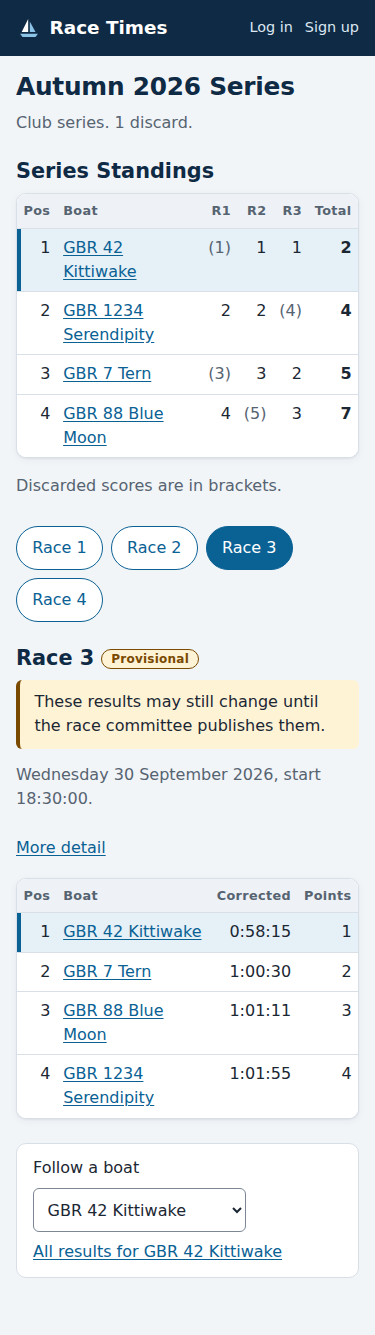
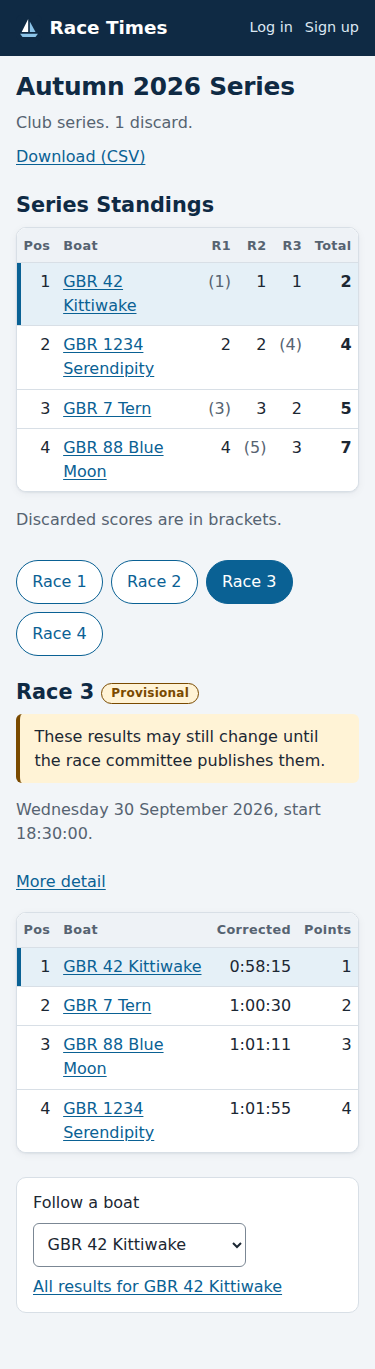
Slice 10: manual, screenshots, a phone layout fix, and slice complete
The manual gains "Ending a series: final results":
- when a series is ready;
- declaring final, and what the lock means;
- reopening.

"Finding your results" gains the Final label and a section on the CSV
download, and the members' email page lists "Final standings" and
"Updated final standings". The screenshot data gains a finished Summer
2026 Series; four new screenshots show it declared final.

Found in the phone check: the race day page's "This series is final" note
had been placed inside the view buttons' markup, which pushed the page
sideways at 375 px. It now sits below them, and a test checks where it is.
The Final results page's note about races not sailed now sits above its
button, and the standings table uses the site's table style.

CLAUDE.md describes races/final.py and results/export.py. The spec records
what was found while building, and docs/plan.md marks slice 10 complete.

Claude-Session: https://claude.ai/code/session_01QY3tQYF5nVQS35pznUQfpw

diff --git a/templates/races/final.html b/templates/races/final.html
@@ -12,33 +12,36 @@
 {% if series.is_final %}
   <p><strong>Final.</strong> Declared {{ series.declared_final_at|date:"j M Y H:i" }} by {{ series.declared_final_by_name }}.
     The series is locked: finishes, start sheets, races, entries and settings can't be changed.</p>
-  {% if not series.final_results_sent_at %}
-  <p>The final standings have not been emailed: sending failed. Try again:</p>
-  <form method="post" action="{% url 'races:send_final' series.pk %}">{% csrf_token %}
-    <button type="submit">Send final standings</button>
-  </form>
-  {% else %}
-  <p>Final standings emailed to the owners {{ series.final_results_sent_at|date:"j M Y H:i" }}.</p>
-  {% endif %}
 {% elif blockers %}
   <p><strong>Not final yet.</strong> Before declaring the series final:</p>
   <ul class="blockers">{% for problem in blockers %}<li>{{ problem }}</li>{% endfor %}</ul>
 {% else %}
   <p><strong>Ready to declare final.</strong> Declaring locks the series, keeps these standings as its
     final places, and emails every owner their boat's final place. You can reopen it later if a mistake turns up.</p>
-  <form method="post" action="{% url 'races:declare_final' series.pk %}">{% csrf_token %}
-    <button type="submit">Declare final</button>
-  </form>
 {% endif %}
 {% if not_sailed %}
   <p class="muted">Not sailed, so left out of the {% if series.is_final %}final {% endif %}standings:
     {% for race in not_sailed %}race {{ race.number }} ({{ race.date|date:"j M" }}){% if not forloop.last %}, {% endif %}{% endfor %}.</p>
 {% endif %}
+{% if series.is_final %}
+  {% if series.final_results_sent_at %}
+  <p>Final standings emailed to the owners {{ series.final_results_sent_at|date:"j M Y H:i" }}.</p>
+  {% else %}
+  <p>The final standings have not been emailed: sending failed. Try again:</p>
+  <form method="post" action="{% url 'races:send_final' series.pk %}">{% csrf_token %}
+    <button type="submit">Send final standings</button>
+  </form>
+  {% endif %}
+{% elif not blockers %}
+  <form method="post" action="{% url 'races:declare_final' series.pk %}">{% csrf_token %}
+    <button type="submit">Declare final</button>
+  </form>
+{% endif %}
 </div>
 
 <h2>{% if series.is_final %}Final standings{% else %}Standings as they stand now{% endif %}</h2>
 {% if results.standings %}
-<div class="table-wrap"><table>
+<div class="table-scroll"><table>
   <thead><tr><th class="num">Pos</th><th>Boat</th><th class="num">Total</th></tr></thead>
   <tbody>{% for row in results.standings %}
     <tr><td class="num">{{ row.position }}</td><td>{{ row.entry.boat }}</td><td class="num">{{ row.total|points }}</td></tr>

diff --git a/scripts/manual_screenshots/shots.js b/scripts/manual_screenshots/shots.js
@@ -115,6 +115,23 @@ const card = (page, text) => page.locator('section.card', { hasText: text }).fir
   await refused.waitFor();
   await shot(refused, 'start-sheet-has-result.png');
 
+  // Ending a series: the Autumn series isn't ready; the Summer one is, and is declared final.
+  await officer.goto(`${BASE}/series/1/final/`);
+  await shot(officer.locator('#final-state'), 'final-not-ready.png');
+  await officer.goto(`${BASE}/series/3/final/`);
+  await shot(officer.locator('main'), 'final-ready.png');
+  await officer.click('#final-state button');
+  await officer.waitForLoadState('networkidle');
+  await shot(officer.locator('main'), 'final-declared.png');
+  // The public series page, from its title to the end of the final standings.
+  await publicPage.goto(`${BASE}/series/3/`);
+  const title = await publicPage.locator('main h1').boundingBox();
+  const standings = await publicPage.locator('#series-body .table-scroll').first().boundingBox();
+  await publicPage.screenshot({
+    path: path.join(OUT, 'results-final.png'), fullPage: true,
+    clip: { x: 0, y: title.y - 8, width: 1000, height: standings.y + standings.height - title.y + 16 },
+  });
+
   // Forgotten passwords.
   await publicPage.goto(`${BASE}/accounts/password-reset/`);
   await shot(publicPage.locator('body'), 'password-reset.png');

diff --git a/templates/races/_race_day_body.html b/templates/races/_race_day_body.html
@@ -1,12 +1,12 @@
 <div id="race-day-body">
 <nav class="view-tabs" aria-label="Race day">
-  <a href="{{ start_url }}" hx-get="{{ start_url }}" hx-target="#race-day-body" hx-swap="outerHTML" hx-push-url="true"{% if locked %}
+  <a href="{{ start_url }}" hx-get="{{ start_url }}" hx-target="#race-day-body" hx-swap="outerHTML" hx-push-url="true"{% if view == "start" %} aria-current="page"{% endif %}>Start sheet</a>
+  <a href="{{ finish_url }}" hx-get="{{ finish_url }}" hx-target="#race-day-body" hx-swap="outerHTML" hx-push-url="true"{% if view == "finish" %} aria-current="page"{% endif %}>Finishing</a>
+</nav>
+{% if locked %}
 <p class="note locked-note"><strong>This series is final</strong>, so nothing here can be changed.
   To correct it, <a href="{% url 'races:final' race.series.pk %}">reopen the series</a> first.</p>
 {% endif %}
-{% if view == "start" %} aria-current="page"{% endif %}>Start sheet</a>
-  <a href="{{ finish_url }}" hx-get="{{ finish_url }}" hx-target="#race-day-body" hx-swap="outerHTML" hx-push-url="true"{% if view == "finish" %} aria-current="page"{% endif %}>Finishing</a>
-</nav>
 {% if view == "start" %}
   {% include "races/_start_sheet_count.html" %}
   <p>Tick each boat that is racing. It saves as you tick; the owner is emailed when a boat is put on or taken off.

diff --git a/scripts/manual_screenshots/seed.py b/scripts/manual_screenshots/seed.py
@@ -4,7 +4,7 @@ Run only by run.sh, against a throwaway SQLite database it creates, never
 against a real one. Every account's password is PASSWORD.
 """
 
-from datetime import date, time, timedelta
+from datetime import date, datetime, time, timedelta
 from decimal import Decimal
 
 from django.contrib.auth.models import Group
@@ -73,6 +73,21 @@ race_4 = Race.objects.create(series=autumn, number=4, date=started.date(),
 RaceEntry.objects.create(race=race_4, entry=entries[0], persons_on_board=3)
 RaceEntry.objects.create(race=race_4, entry=entries[2], persons_on_board=4)
 wednesdays = Series.objects.create(name="Wednesday Evenings")
+
+# A finished summer series, every race published and sent, ready to be
+# declared final (slice 10). Race 3 was cancelled for weather: nothing recorded.
+summer = Series.objects.create(name="Summer 2026 Series")
+summer_entries = [SeriesEntry.objects.create(series=summer, boat=boat) for boat in (kittiwake, tern, serendipity)]
+summer_finishes = {1: [time(19, 12, 40), time(19, 15, 2), time(19, 14, 21)],
+                   2: [time(19, 20, 5), time(19, 18, 33), time(19, 21, 50)]}
+sent = timezone.make_aware(datetime(2026, 7, 20, 21, 0))
+for number, day in [(1, 1), (2, 8), (3, 15)]:
+    race = Race.objects.create(series=summer, number=number, date=date(2026, 7, day), start_time=time(18, 30))
+    if number in summer_finishes:
+        for entry, finish in zip(summer_entries, summer_finishes[number]):
+            RaceEntry.objects.create(race=race, entry=entry)
+            Finish.objects.create(race=race, entry=entry, finish_time=finish)
+        Race.objects.filter(pk=race.pk).update(published_at=sent, results_sent_at=sent)
 
 # One request of each kind, waiting.
 BoatRequest.objects.create(

diff --git a/races/test_final.py b/races/test_final.py
@@ -258,6 +258,11 @@ def test_the_race_day_page_shows_the_series_is_final(client, locked):
     race_2 = locked["races"][1]
     page = client.get(reverse("races:race_day", args=[race_2.pk]) + "?view=finish").content.decode()
     assert "This series is final" in page
+    # The note sits below the view buttons, not inside them.
+    tabs_start = page.index('<nav class="view-tabs"')
+    tabs_end = page.index("</nav>", tabs_start)
+    assert "locked-note" not in page[tabs_start:tabs_end]
+    assert tabs_end < page.index('<p class="note locked-note">')
     assert "Edit</summary>" not in page and "Finished</button>" not in page and 'id="publishing"' not in page
     page = client.get(reverse("races:race_day", args=[race_2.pk]) + "?view=start").content.decode()
     assert '<fieldset class="start-rows" disabled>' in page

diff --git a/CLAUDE.md b/CLAUDE.md
@@ -85,8 +85,8 @@ a pointer instead.
   over them; `tests/conftest.py` wraps the same objects as pytest fixtures. All
   fixture I/O happens there, never inside `nhc/`. `tests/test_manual.py` is the
   one non-engine test there: it checks the user manual's links and contents.
-- `config/` is the Django project (settings, root URLs, WSGI/ASGI). `races/` is the app: Boat, Series, SeriesEntry, Race, RaceEntry and Finish models, set up through the Django admin; `races/scoring.py` replays a series through `nhc` on every request (nothing derived is stored); `races/audit.py` records every change to a score-affecting field as a `ScoringChange` row (who, when, old and new, and a reason for corrections), called explicitly from the finish view and the admin rather than via signals; a committee-only race day page per race (slice 9, `races/race_day.py` and `/races/<pk>/`: a Start sheet view and a Finishing view where a **Finished** button stamps the site's local time, with a two-minute Undo, 5-second HTMX polling that answers 204 when nothing changed, and `static/js/race-clock.js`, the one approved hand-written script; `race_day.now` is the clock to fix in tests) and a committee-only history page per series. The old finish-entry and start sheet addresses redirect to the race day page. Roles (see `docs/brief.md`) are in `races/roles.py`: member = active account, race committee = staff in the "Race committee" group (created by migration 0005, with no permissions on accounts), administrator = superuser; use `committee_required` / `member_required`, never `is_staff` alone. Members change nothing directly: `races/member_views.py` creates `BoatRequest`/`EntryRequest` rows, and `races/approvals.py` applies one when the committee approves it on the Requests page, through the same audit code as the admin. Email (slice 4) goes only through `races/notifications.send`, which sends after the transaction commits and turns a failure into a logged warning on the page rather than an error; templates are `templates/emails/*.txt`, first line the subject. `races/publishing.py` publishes a race's results and decides "amended since sent" from the change history. `races/start_sheet.py` (slice 6) keeps each race's start sheet (`RaceEntry`): only a boat on it can have a finish, every boat on it needs a time or a code before publishing, and a boat on it with nothing recorded is still scored DNC but shown as "Not recorded". Start sheet changes are not audited, since none moves a score. The test builder `record()` puts the boat on the start sheet first. `races/urls.py` is included at the site root. Project-level templates live in `templates/` (`base.html` loads HTMX and sends the CSRF token via `hx-headers`, so HTMX POSTs work without per-form tokens); HTMX is vendored at `static/js/htmx.min.js` (v2.0.10), not loaded from a CDN. The look (slice 7) is one hand-written stylesheet, `static/css/site.css`: every colour is a token in its `:root`, and `races/test_styles.py` checks the tokens meet WCAG AA contrast, that no colour is written anywhere else, and that pages load only the site's own files. `templates/500.html` copies the look inline and loads nothing. `ping` is an example view demonstrating HTMX fragment responses. `races/testing.py` has builders for the app's tests.
-- `results/` is the public results app (slice 5): the home page (boat search, latest results, every series), a series page and a boat page, at `/`, `/series/<pk>/` and `/boats/<pk>/`. It only reads: no models, GET-only views, and it shows what `races.scoring.score_series` computes and nothing else. It imports from `races`; `races` never imports from it (it links to it by URL name only). `results/test_read_only.py` enforces all of this. Each HTMX interaction goes to the same URL as its full page; `results/views.py:_render` returns just the targeted fragment when `request.htmx` names it. Public pages never show owners' names.
+- `config/` is the Django project (settings, root URLs, WSGI/ASGI). `races/` is the app: Boat, Series, SeriesEntry, Race, RaceEntry and Finish models, set up through the Django admin; `races/scoring.py` replays a series through `nhc` on every request (nothing derived is stored); `races/audit.py` records every change to a score-affecting field as a `ScoringChange` row (who, when, old and new, and a reason for corrections), called explicitly from the finish view and the admin rather than via signals; a committee-only race day page per race (slice 9, `races/race_day.py` and `/races/<pk>/`: a Start sheet view and a Finishing view where a **Finished** button stamps the site's local time, with a two-minute Undo, 5-second HTMX polling that answers 204 when nothing changed, and `static/js/race-clock.js`, the one approved hand-written script; `race_day.now` is the clock to fix in tests) and a committee-only history page per series. The old finish-entry and start sheet addresses redirect to the race day page. Roles (see `docs/brief.md`) are in `races/roles.py`: member = active account, race committee = staff in the "Race committee" group (created by migration 0005, with no permissions on accounts), administrator = superuser; use `committee_required` / `member_required`, never `is_staff` alone. Members change nothing directly: `races/member_views.py` creates `BoatRequest`/`EntryRequest` rows, and `races/approvals.py` applies one when the committee approves it on the Requests page, through the same audit code as the admin. Email (slice 4) goes only through `races/notifications.send`, which sends after the transaction commits and turns a failure into a logged warning on the page rather than an error; templates are `templates/emails/*.txt`, first line the subject. `races/publishing.py` publishes a race's results and decides "amended since sent" from the change history. `races/final.py` (slice 10) declares a series final and reopens it: a final series is locked (every write path calls `final.check_open`, or `check_series_open` to read the series fresh) and `races/scoring.score_series` rebuilds its results from `Series.final_results`, a JSON copy of the engine's output, instead of replaying; this is the one place derived results are stored. Declaring and reopening are history rows of kind FINAL, which neither mark races amended nor move the standings' "Last updated". `races/start_sheet.py` (slice 6) keeps each race's start sheet (`RaceEntry`): only a boat on it can have a finish, every boat on it needs a time or a code before publishing, and a boat on it with nothing recorded is still scored DNC but shown as "Not recorded". Start sheet changes are not audited, since none moves a score. The test builder `record()` puts the boat on the start sheet first. `races/urls.py` is included at the site root. Project-level templates live in `templates/` (`base.html` loads HTMX and sends the CSRF token via `hx-headers`, so HTMX POSTs work without per-form tokens); HTMX is vendored at `static/js/htmx.min.js` (v2.0.10), not loaded from a CDN. The look (slice 7) is one hand-written stylesheet, `static/css/site.css`: every colour is a token in its `:root`, and `races/test_styles.py` checks the tokens meet WCAG AA contrast, that no colour is written anywhere else, and that pages load only the site's own files. `templates/500.html` copies the look inline and loads nothing. `ping` is an example view demonstrating HTMX fragment responses. `races/testing.py` has builders for the app's tests.
+- `results/` is the public results app (slice 5): the home page (boat search, latest results, every series), a series page and a boat page, at `/`, `/series/<pk>/` and `/boats/<pk>/`. It only reads: no models, GET-only views, and it shows what `races.scoring.score_series` computes and nothing else. `results/export.py` builds the CSV download at `/series/<pk>/results.csv` (slice 10) from the same results. It imports from `races`; `races` never imports from it (it links to it by URL name only). `results/test_read_only.py` enforces all of this. Each HTMX interaction goes to the same URL as its full page; `results/views.py:_render` returns just the targeted fragment when `request.htmx` names it. Public pages never show owners' names.
 - User manual: `manual/` is for the site's users (members, race committee, administrator), organised by role and written in plain CommonMark plus tables so it stays portable; `mkdocs.yml` lists its pages and `.readthedocs.yaml` publishes it. `docs/` is developer documentation and is not part of it. `tests/test_manual.py` checks every link, image and contents entry; screenshots come from `scripts/manual_screenshots/` against throwaway sample data.
 - Hosting: `render.yaml` deploys `main` to Render on every push, running `build.sh` (collectstatic, migrate, `ensure_superuser`) and then `gunicorn`; see `docs/deploying.md`. With `DJANGO_DEBUG=0` the settings switch to production behaviour: WhiteNoise serves static files, cookies are HTTPS-only, and a missing `DJANGO_SECRET_KEY` stops the site starting.
 - Settings are driven by environment variables (see `.env.example`; `.env` is gitignored but not loaded automatically, so export the variables yourself): `DJANGO_SECRET_KEY`, `DJANGO_DEBUG` (defaults on), `DJANGO_ALLOWED_HOSTS` (comma-separated), `DATABASE_URL`, and the `EMAIL_*` settings (unset, emails are printed to the console). With `DATABASE_URL` unset, the database is `db.sqlite3` in the repo root; set it to a `postgres://...` URL to use PostgreSQL.

diff --git a/docs/plan.md b/docs/plan.md
@@ -339,18 +339,61 @@ pages' layout were updated to the new one; the commit message lists them.
 One page per race replaces the start sheet and finish-entry pages: tick who
 is racing, then tap **Finished** as each boat crosses the line.
 
-## Slice 10: final results and export. **Status: planned (2026-09-25)**
+## Slice 10: final results and export. **Status: complete (2026-09-25)**
 
-Spec: `docs/slices/10-final-results-and-export.md`. It proposes four new
-fields on `Series`, which need the project owner's approval before any
-migration is written.
+Acceptance criteria, from `docs/slices/10-final-results-and-export.md`:
 
-The brief's user journey 5. The committee declares a series final:
-- it is locked, so nothing that could move its results can change until
-  it's reopened with a reason;
-- a copy of its results is kept, so a later base number correction can't
-  change a finished season;
-- the owners are emailed their final places.
+- [x] The committee declares a series final on its Final results page. It's
+      refused, naming the races and boats, while a race with results is
+      unpublished, amended since sent, or has a boat not recorded. Races not
+      sailed are listed and don't block. Who, when and a "Declared final"
+      history entry are recorded.
+- [x] Every write path refuses a final series and writes nothing, tested
+      path by path:
+      - finish, tap, Undo and the start sheet, with and without HTMX;
+      - publishing;
+      - five admin changes (settings, a race's start, adding a race, adding
+        and removing an entry);
+      - approving an entry request.
+- [x] A boat's base number and the series' name can still be changed.
+- [x] A final series scores identically from its copy (SCEN-005, and a
+      series with codes, ties and discards). A base number change after
+      declaring leaves it exactly as declared, while another series moves.
+- [x] Reopening needs a reason, unlocks the series and drops the copy.
+      Declaring again makes a new copy and sends "Updated final standings".
+- [x] The email:
+      - goes once to each active owning account;
+      - isn't sent on a rolled-back declaration or on reopening;
+      - after a sending failure, the series stays final and the page offers
+        Send again.
+- [x] The series, home and boat pages label a final series Final.
+- [x] The CSV:
+      - anyone can download it, as UTF-8 with a byte-order mark;
+      - it matches the series page and SCEN-005;
+      - it keeps a final series' places;
+      - it has no owner names or persons on board;
+      - it says final or provisional, and handles an empty series.
+- [x] `results/test_read_only.py` still passes. Both new pages are in the
+      four-role test.
+- [x] Migrations use nothing database-specific. The app's tests were also
+      run against PostgreSQL 16 by hand; CI runs SQLite only.
+- [x] The manual gains "Ending a series: final results", with four new
+      screenshots. "Finding your results" gains the Final label and the
+      download, and the email page lists the two new emails.
 
-Anyone can download any series' standings and race results as one CSV
-file.
+Manual check: in headless Chromium at 375 px, on the manual's sample data:
+- declared the Summer series final, and read the Final label on the public
+  page;
+- downloaded the CSV and checked its byte-order mark and contents;
+- saw the race day page locked;
+- reopened the series with JavaScript off.
+
+No page scrolls sideways. The email was read as it renders.
+
+Found while checking: the race day page's "This series is final" note had
+been placed inside the view buttons, which pushed the page sideways on a
+phone. It now sits below them, and a test checks where it is.
+
+The brief's user journey 5. The committee declares a series final: it is
+locked, a copy of its results is kept, and the owners are emailed their
+final places. Anyone can download any series as one CSV file.

diff --git a/manual/committee/ending-a-series.md b/manual/committee/ending-a-series.md
@@ -1,0 +1,73 @@
+# Ending a series: final results
+
+*For the race committee and the administrator.*
+
+When a series is over, you **declare it final**. Its standings become the
+final places, it is labelled **Final** on the results pages, and every owner
+is emailed their boat's final place. A final series is locked: nothing in it
+can change unless you reopen it.
+
+## Before you start
+
+Open the series' **Final results** page: on the series' results page, follow
+**Final results** near the top. You can also go from the series in the
+admin, where the **History** row has a **Final results** link.
+
+The box at the top says whether the series is ready. A series can't be
+declared final while any race:
+
+- has results that aren't [published](publishing-results.md) yet;
+- has been corrected since its results were sent. Send the updated results
+  first;
+- has a boat on its [start sheet](race-day.md) with nothing recorded.
+
+The box names each race and boat, so you know what to do.
+
+![The Final results box for a series that isn't ready: race 1 corrected since its results were sent, races 2 and 3 not published, and a boat not recorded in race 4](../images/final-not-ready.png)
+
+Races with nothing recorded, such as one cancelled for weather, don't stop
+you. They are listed as "not sailed", and they aren't part of the
+standings.
+
+## Declaring the series final
+
+When the series is ready, the page shows the standings as they stand, and a
+**Declare final** button.
+
+![The Final results page for the Summer 2026 Series: ready to declare final, race 3 not sailed, and the standings](../images/final-ready.png)
+
+Press **Declare final**. Then:
+
+- The series is **locked**. Finishes, start sheets, races, entries, the
+  series' scoring settings and publishing are all refused, with the message
+  "This series is final. Reopen it to make changes." The race day pages show
+  the series is final, with no buttons.
+- Every owner of a boat in the series gets a **Final standings** email, with
+  the standings and their boat's place. As with results, only owners with an
+  account on the site get it. If sending fails, the page says so and offers
+  **Send final standings** to try again.
+- The results pages label the series **Final**, and say when it was
+  declared.
+
+![The Final results page after declaring: final, locked, emailed to the owners, with a box to reopen it](../images/final-declared.png)
+
+You can still rename the series, and change boats' details, including
+their base numbers. A final series keeps its results exactly as they were
+when you declared it, even if a boat's base number is corrected later for
+another series.
+
+## Reopening a series
+
+If a mistake turns up after declaring, type a reason under **Reopen the
+series** and press **Reopen**. The reason goes in the series' history. The
+series is then unlocked, and its results are recalculated from the finishes
+again, so you can correct it as usual.
+
+Reopening emails nobody. When you have finished, declare it final again.
+The owners then get an **Updated final standings** email.
+
+## Downloading the results
+
+Anyone can download a series' standings and race results from the
+**Download (CSV)** link on its results page, final or not. See
+[Finding your results](../getting-started/finding-results.md#downloading-a-series-results).

diff --git a/manual/members/emails.md b/manual/members/emails.md
@@ -11,6 +11,8 @@ with.
 | **Your Race Times account is approved** | The club's administrator has approved your account, and you can log in. |
 | **Results** | The race committee has published a race's results, in a series you have a boat entered in. |
 | **Updated results** | The race committee has corrected a race's results after sending them, and is sending them again as they now stand. |
+| **Final standings** | The race committee has declared a series you have a boat in final. It gives the final standings and your boat's final place. |
+| **Updated final standings** | The committee reopened a final series to correct it, and has declared it final again. These are the new final standings. |
 | **Approved** / **Not approved**: your request… | The race committee has decided one of your requests: registering a boat, changing a boat's details, being recorded as a boat's owner, or entering a series. It says what changed, or, if your request was not approved, the committee's note explaining why. |
 | **Your boat is entered in a series** | The race committee entered your boat in a series themselves. (If you asked to enter it, the "Approved" email is your confirmation instead.) |
 | **Your boat is no longer entered in a series** | The race committee removed your boat from a series. It is no longer scored in it. |

diff --git a/manual/getting-started/finding-results.md b/manual/getting-started/finding-results.md
@@ -70,3 +70,16 @@ you are following, so you can bookmark it or send the link to your crew.
 | **Amended** | Something in this race was corrected after the results first appeared, on the date shown. |
 | **Last updated** | Under the series standings: the date of the latest correction that could have changed them. |
 | **Amended since published** | A published race has been corrected, and the committee has not yet sent the updated results. The page shows the results as they now stand. |
+| **Final** | The race committee has declared the series over. Its standings are the final places, and it can no longer change. |
+
+## Downloading a series' results
+
+Every series' page has a **Download (CSV)** link near the top. It gives you
+one file with the series standings, then each race's results: place, boat,
+finish time, elapsed time, handicap, corrected time, points and any code
+(such as DNF). It opens in Excel, Numbers or Google Sheets.
+
+The file says at the top whether the standings are final or provisional,
+and when you downloaded it. Like every page, it never shows owners' names.
+
+![The Summer 2026 Series page: the Download (CSV) link, and the series standings marked Final](../images/results-final.png)

diff --git a/docs/slices/10-final-results-and-export.md b/docs/slices/10-final-results-and-export.md
@@ -60,7 +60,9 @@ While a series is final, **nothing that could move its results can change**:
 - **Entries and settings:** entering or removing a boat, and the series'
   settings, in the admin and through a member's entry request. An entry
   request for a final series is refused when approved, with a note that
-  says why.
+  says why. The lock is checked before the "give a reason" check, so the
+  committee is told the series is final rather than asked for a reason.
+  *(Found while building.)*
 
 Each is refused with the message "This series is final. Reopen it to make
 changes.", on the page or the admin form. **Nothing is written.**
@@ -177,6 +179,12 @@ form:
 
 One migration, with nothing database-specific. Every existing series starts
 not final.
+
+*(Found while building.)* The same migration adds a choice, `FINAL`, to the
+change history's kinds, for "Declared final" and "Reopened". Neither moves a
+score, so neither should mark races "amended since sent" or move the
+standings' "Last updated" date. Their own kind lets both leave them out.
+Adding a choice changes no column.
 
 ## Acceptance criteria
 - **Declaring:**

diff --git a/manual/index.md b/manual/index.md
@@ -42,6 +42,8 @@ way every boat, entry and result has been checked by someone on the committee.
 - [Publishing results](committee/publishing-results.md): marking a race's
   results final, emailing them to owners, and sending updated results after
   corrections.
+- [Ending a series: final results](committee/ending-a-series.md): declaring
+  a series final, emailing owners their final places, and reopening it.
 - [Reviewing waiting requests](committee/reviewing-requests.md): finding out
   what is waiting for you, and approving or rejecting members' requests and
   new accounts.
